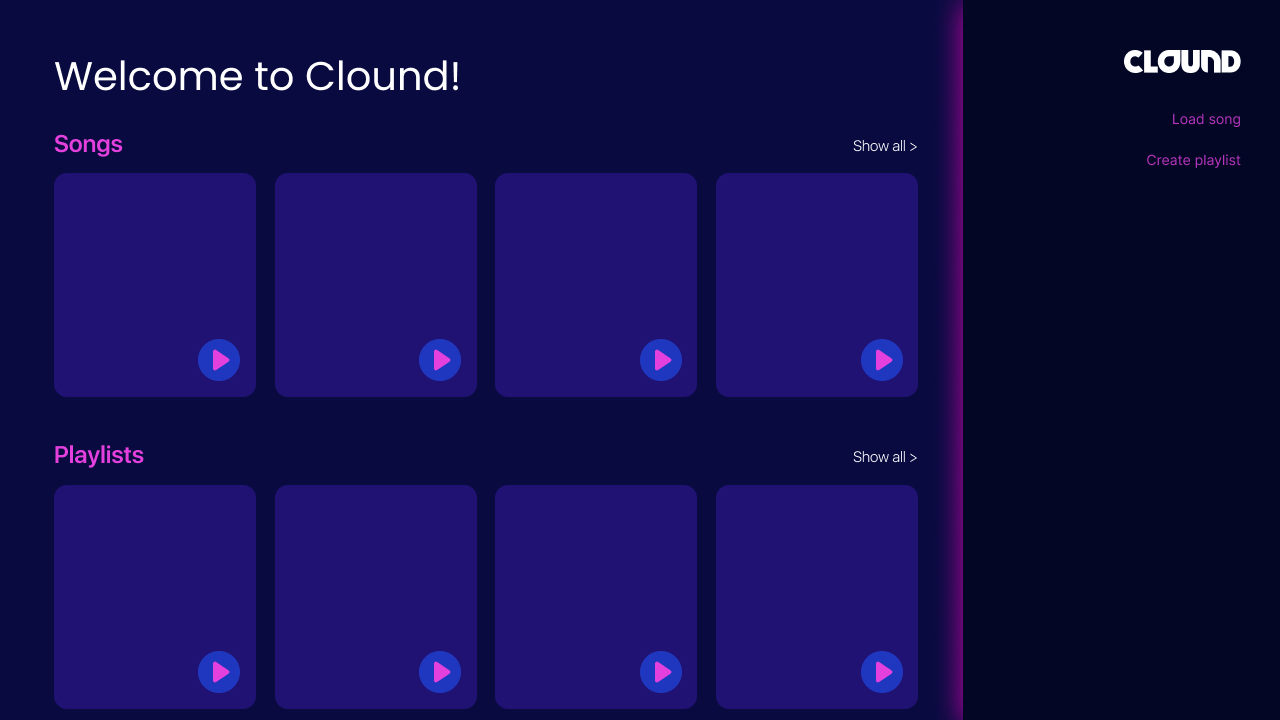
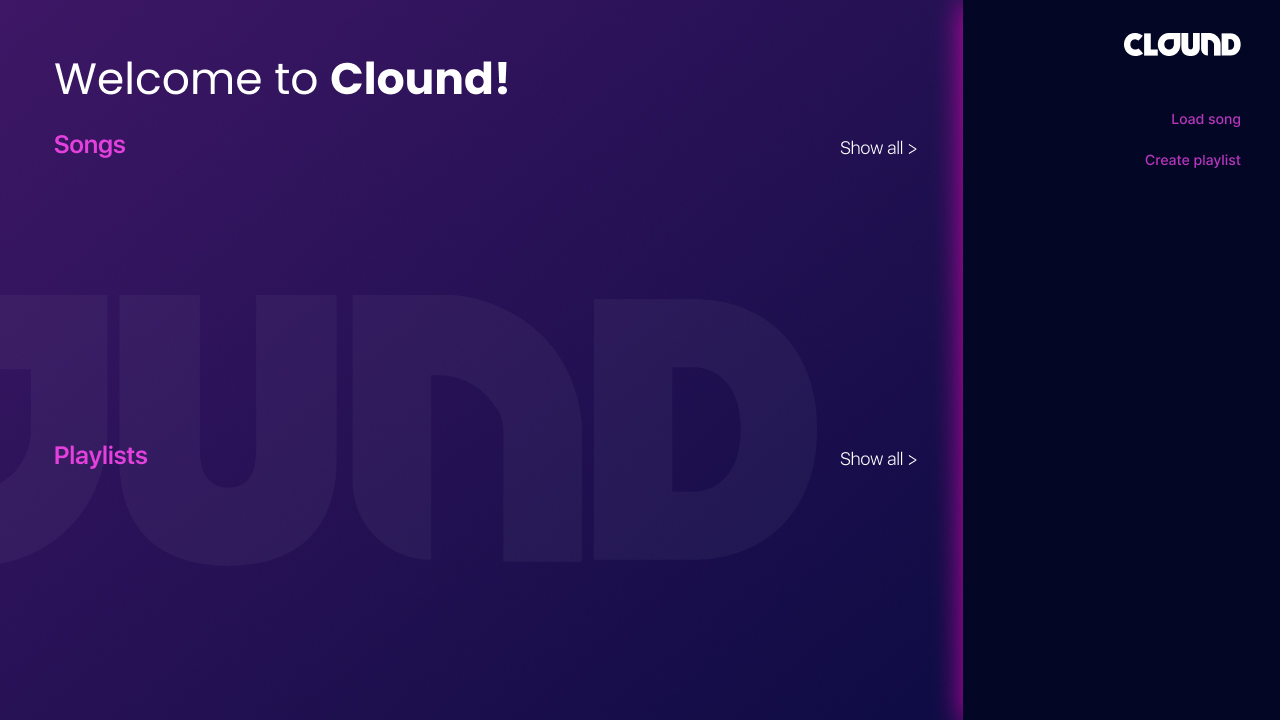
Ya casi acabamooos!!!!

diff --git a/App.js b/App.js
@@ -1,8 +1,10 @@
 class App{
     constructor(){
         this._songsFiles = [];
+        this._imageFiles = [];
         this._songs = [];
-        this.loadFileSongs();
+        this.loadSongFiles();
+        this.loadImageFiles();
         this._interface = new Interface();
         this._screen = 1;
         this._playLists = [];
@@ -11,8 +13,18 @@ class App{
         this.createPlayLists();
         this._volumeSlider = 990;
         this._loadingSlider = 280;
+        const input = document.querySelector('#load-song');
+
+        input.addEventListener('change', () => {
+            const url = URL.createObjectURL(input.files[0]);
+            const sound = loadSound(url, () => {
+                const name = window.prompt("Type the song name") || "";
+                const artist = window.prompt("Type the artist song") || "";
+                this._songs.push(new Song({soundFile: sound, name: name, artist: artist}))
+            })
+        })
     }
-    loadFileSongs(){
+    loadSongFiles(){
         this._songsFiles[0] = loadSound('/Songs/Slowdive - When the sun hits.mp3');
         this._songsFiles[1] = loadSound('/Songs/Surf Curse - Freaks.mp3');
         this._songsFiles[2] = loadSound('/Songs/The Drums - Money.mp3');
@@ -29,6 +41,23 @@ class App{
         this._songsFiles[13] = loadSound('/Songs/The Less I Know The Better.mp3');
         this._songsFiles[14] = loadSound('/Songs/High Enough.mp3');
     }
+    loadImageFiles(){
+        this._imageFiles[0] = loadImage('/Images/image1.jpg');
+        this._imageFiles[1] = loadImage('/Images/image2.jpg');
+        this._imageFiles[2] = loadImage('/Images/image3.jpg');
+        this._imageFiles[3] = loadImage('/Images/image4.jpg');
+        this._imageFiles[4] = loadImage('/Images/image5.jpg');
+        this._imageFiles[5] = loadImage('/Images/image6.jpg');
+        this._imageFiles[6] = loadImage('/Images/image7.jpg');
+        this._imageFiles[7] = loadImage('/Images/image8.jpg');
+        this._imageFiles[8] = loadImage('/Images/image9.jpg');
+        this._imageFiles[9] = loadImage('/Images/image10.jpg');
+        this._imageFiles[10] = loadImage('/Images/image11.jpg');
+        this._imageFiles[11] = loadImage('/Images/image12.jpg');
+        this._imageFiles[12] = loadImage('/Images/image13.jpg');
+        this._imageFiles[13] = loadImage('/Images/image14.jpg');
+        this._imageFiles[14] = loadImage('/Images/image15.jpg');
+    }
     songDates(){
         this._songs.push(new Song({
             name: 'When the sun hits',
@@ -36,7 +65,8 @@ class App{
             genre: 'Alternative',
             date: '1993',
             duration: '285',
-            soundFile: this._songsFiles[0]
+            soundFile: this._songsFiles[0],
+            imageFile: this._imageFiles[0]
         }));
         this._songs.push(new Song({
             name: 'Freaks',
@@ -44,7 +74,8 @@ class App{
             genre: 'Alternative',
             date: '2013',
             duration: '147',
-            soundFile: this._songsFiles[1]
+            soundFile: this._songsFiles[1],
+            imageFile: this._imageFiles[1]
         }));
         this._songs.push(new Song({
             name: 'Money',
@@ -52,7 +83,8 @@ class App{
             genre: 'Rock',
             date: '2011',
             duration: '236',
-            soundFile: this._songsFiles[2]
+            soundFile: this._songsFiles[2],
+            imageFile: this._imageFiles[2]
         }));
         this._songs.push(new Song({
             name: 'Fahrradsattel',
@@ -60,7 +92,8 @@ class App{
             genre: 'Rock',
             date: '2021',
             duration: '110',
-            soundFile: this._songsFiles[3]
+            soundFile: this._songsFiles[3],
+            imageFile: this._imageFiles[3]
         }));
         this._songs.push(new Song({
             name: 'Pantysito',
@@ -68,7 +101,8 @@ class App{
             genre: 'Reggaeton',
             date: '2022',
             duration: '237',
-            soundFile: this._songsFiles[4]
+            soundFile: this._songsFiles[4],
+            imageFile: this._imageFiles[4]
         }));
         this._songs.push(new Song({
             name: 'I think I Like It',
@@ -76,7 +110,8 @@ class App{
             genre: 'Electronic',
             date: '2015',
             duration: '335',
-            soundFile: this._songsFiles[5]
+            soundFile: this._songsFiles[5],
+            imageFile: this._imageFiles[5]
         }));
         this._songs.push(new Song({
             name: 'Lady (Hear Me Tonight)',
@@ -84,7 +119,8 @@ class App{
             genre: 'Disco',
             date: '2000',
             duration: '221',
-            soundFile: this._songsFiles[6]
+            soundFile: this._songsFiles[6],
+            imageFile: this._imageFiles[6]
         }));
         this._songs.push(new Song({
             name: 'Chandelier',
@@ -92,7 +128,8 @@ class App{
             genre: 'Alternative/independent',
             date: '2021',
             duration: '129',
-            soundFile: this._songsFiles[7]
+            soundFile: this._songsFiles[7],
+            imageFile: this._imageFiles[7]
         }));
         this._songs.push(new Song({
             name: 'Demasiadas mujeres',
@@ -100,7 +137,8 @@ class App{
             genre: 'Latin Urban, R&B alternative',
             date: '2021',
             duration: '167',
-            soundFile: this._songsFiles[8]
+            soundFile: this._songsFiles[8],
+            imageFile: this._imageFiles[8]
         }));
         this._songs.push(new Song({
             name: 'Jugaste Y Sufrí',
@@ -108,7 +146,8 @@ class App{
             genre: 'Corridos Tumbados',
             date: '2020',
             duration: '275',
-            soundFile: this._songsFiles[9]
+            soundFile: this._songsFiles[9],
+            imageFile: this._imageFiles[9]
         }));
         this._songs.push(new Song({
             name: 'METALLICA',
@@ -116,7 +155,8 @@ class App{
             genre: 'Trap',
             date: '2021',
             duration: '225',
-            soundFile: this._songsFiles[10]
+            soundFile: this._songsFiles[10],
+            imageFile: this._imageFiles[10]
         }));
         this._songs.push(new Song({
             name: 'Softcore',
@@ -124,7 +164,8 @@ class App{
             genre: 'Alternative',
             date: '2018',
             duration: '210',
-            soundFile: this._songsFiles[11]
+            soundFile: this._songsFiles[11],
+            imageFile: this._imageFiles[11]
         }));
         this._songs.push(new Song({
             name: 'Sudno',
@@ -132,7 +173,8 @@ class App{
             genre: 'Post Punk',
             date: '2018',
             duration: '145',
-            soundFile: this._songsFiles[12]
+            soundFile: this._songsFiles[12],
+            imageFile: this._imageFiles[12]
         }));
         this._songs.push(new Song({
             name: 'The Less I know The Better',
@@ -140,7 +182,8 @@ class App{
             genre: 'Alternative',
             date: '2015',
             duration: '227',
-            soundFile: this._songsFiles[13]
+            soundFile: this._songsFiles[13],
+            imageFile: this._imageFiles[13]
         }));
         this._songs.push(new Song({
             name: 'High Enough',
@@ -148,7 +191,8 @@ class App{
             genre: 'Indie Rock',
             date: '2017',
             duration: '290',
-            soundFile: this._songsFiles[14]
+            soundFile: this._songsFiles[14],
+            imageFile: this._imageFiles[14]
         }));
     }
     createPlayLists(){
@@ -197,8 +241,7 @@ class App{
                 for (let index = 0; index < this._songs.length; index++) {
                     const song = this._songs[index];
                     if(song.isPlaying === true){
-                        
-                        console.log(map(mouseX, 0, this._songs[index].soundFile.duration(),280 ,990))
+                        //const loading = map()
                     }
                     circle(this._loadingSlider, 633, 10);
                 }
@@ -320,6 +363,16 @@ class App{
                 }
                 break;
         }
+        if(this._screen === 1,2,3){
+            this.uploadSong(mx, my);
+        }
+    }
+    uploadSong(mx, my){
+        if(mx > 1160 && mx <1160 + 90
+            && my > 110 && my <110 + 30){
+                const input = document.querySelector('#load-song');
+                input.click();
+            }
     }
     isDragged(mx, my, song){
         switch (this._screen) {

diff --git a/Interface.js b/Interface.js
@@ -1,6 +1,9 @@
 class Interface{
     constructor(){
         this._Backgrounds = [];
+        this._boxes = [];
+        this._buttons = [];
+        this._songImages = [];
         this.preloadImages();
     }
     preloadImages(){
@@ -9,6 +12,10 @@ class Interface{
         this._Backgrounds[2] = loadImage('/Images/AllSongs.jpg');
         this._Backgrounds[3] = loadImage('/Images/AllPlaylists.jpg');
         this._Backgrounds[4] = loadImage('/Images/IsPlaying.jpg');
+        this._boxes[0] = loadImage('/Images/SongFrame.png');
+        this._boxes[1] = loadImage('/Images/PlayListFrame.png');
+        this._boxes[10] = loadImage('/Images/windowSong.jpg');
+        this._buttons[0] = loadImage('/Images/PlayButton.png')
     }
     welcome(){
         image(this._Backgrounds[0], 0, 0);
@@ -19,12 +26,13 @@ class Interface{
             const song = songArray[index];
 
             if(index <= 3){
+                image(this._boxes[0], -155 + index * 220, -10);
                 // Info canciones
                 textAlign(LEFT);
                 fill(255);
-                textSize(20);
+                textSize(18);
                 text(song.name, 70 + index * 220, 320);
-                textSize(16);
+                textSize(14);
                 text(song.artist, 70 + index * 220, 340);
                 fill(255);
                 textSize(14);
@@ -33,16 +41,19 @@ class Interface{
                 //Boton reproducir canciones
                 noStroke();
                 fill(150);
-                circle(220 + index * 220, 360, 40); 
+                image(this._buttons[0], 200 + index * 220, 340)
             }
         }
         for (let index = 0; index < playListArray.length; index++) {
             const playList = playListArray[index];
-            //info playlists
-            textAlign(LEFT);
-            fill(255);
-            textSize(20);
-            text(playList.name, 70 + index * 220, 630);
+            if(index <= 3){
+                image(this._boxes[1], -33 + index * 220, 405);
+                //info playlists
+                textAlign(LEFT);
+                fill(255);
+                textSize(18);
+                text(playList.name, 70 + index * 220, 630);
+            }
         }
     }
     playing(){
@@ -90,14 +101,18 @@ class Interface{
 
         fill(0, 80);
         rect(70, 50, 40, 30);
+        image(song.imageFile, 454, 53);
     }
     songWindow(playingSong, screen){
         if(playingSong !== null && screen !== 0 && screen !== 4){
-            rect(980,300, 282, 330);
-            fill(0);
+            image(this._boxes[10], 978, 295);
+            image(playingSong.imageFile, 978, 295, 287, 287);
+            fill(255);
             textAlign(LEFT);
-            textSize(20);
-            text(playingSong.name, 995,560);
+            textSize(18);
+            text(playingSong.name, 1000,620);
+            textSize(12);
+            text(playingSong.artist, 1000, 640);
         }
     }
 }

diff --git a/Song.js b/Song.js
@@ -2,10 +2,11 @@ class Song{
     constructor({
         name,
         artist,
-        genre,
-        date,
-        duration,
-        soundFile
+        genre = '',
+        date = '',
+        duration = '',
+        soundFile,
+        imageFile
     }){
         this._name = name;
         this._artist = artist;
@@ -14,6 +15,7 @@ class Song{
         this._duration = duration;
         this._soundFile = soundFile;
         this._isPlaying = false;
+        this._imageFile = imageFile;
     }
     playSong(){
         this._soundFile.play();
@@ -52,5 +54,8 @@ class Song{
     }
     get isPlaying(){
         return this._isPlaying;
+    }
+    get imageFile(){
+        return this._imageFile;
     }
 }
